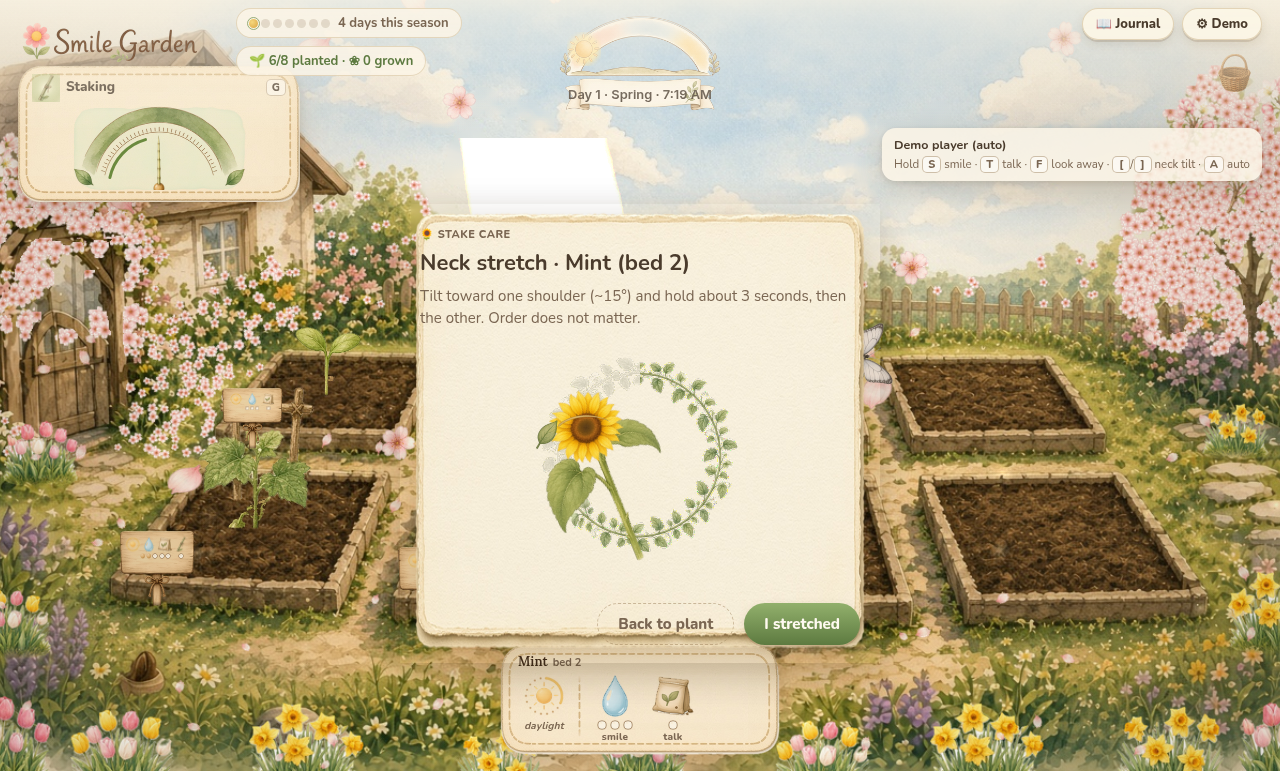
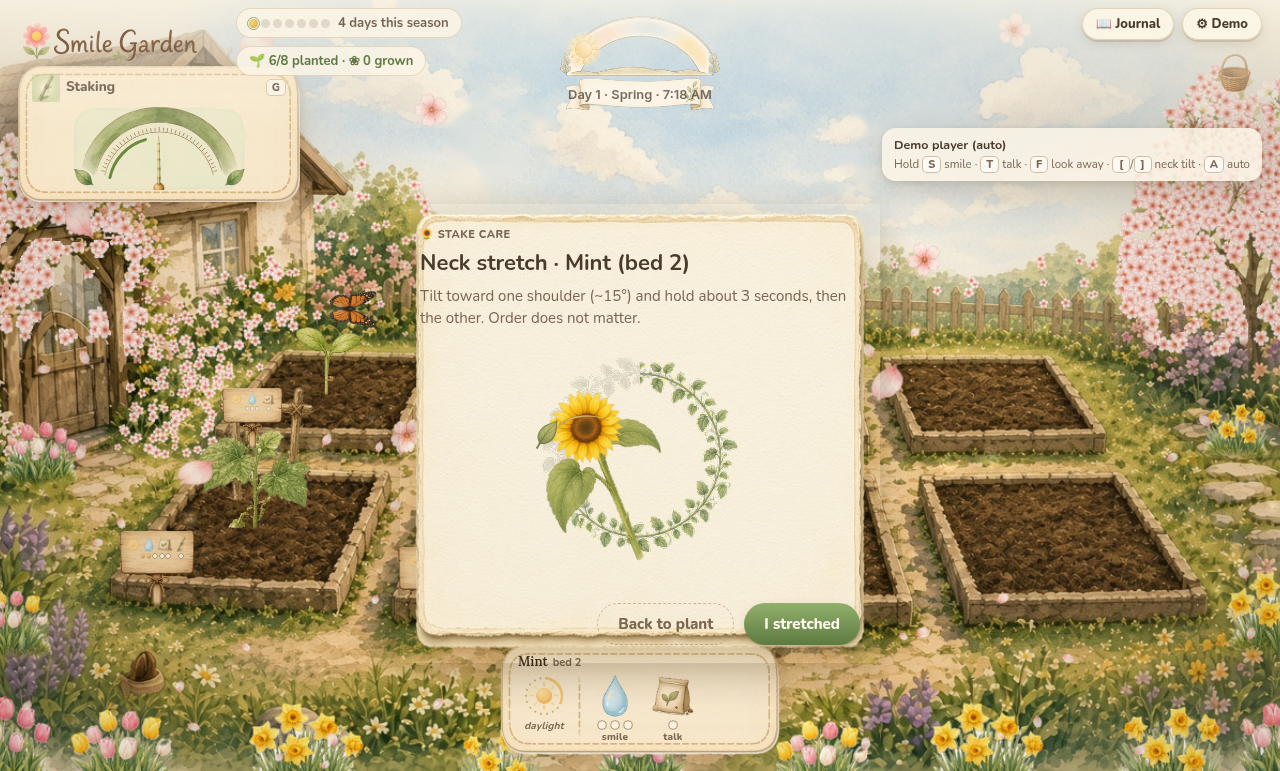
Stop care-hub sun shafts and clip bed FX strips for doc captures
During care-hub, let syncTendRing own scene effects instead of the legacy
per-step sun shimmer that painted full-height shafts over the gate. Clip
effect, harvest, and selection art to each bed box, snap FX off when targets
clear, capture signal-panel shots mid-visit with the tend strip visible, and
regenerate the affected care UI PNGs.

diff --git a/renderer/scene.js b/renderer/scene.js
@@ -497,10 +497,22 @@
                 if (fxWasOn[k] && !on) playAbsorb(k, effectPlot);
                 fxWasOn[k] = on;
             }
-            if ('sun' in e) fx.sunTarget = clamp(e.sun);
-            if ('water' in e) fx.waterTarget = clamp(e.water);
-            if ('fert' in e) fx.fertTarget = clamp(e.fert);
-            if ('stake' in e) fx.stakeTarget = clamp(e.stake);
+            if ('sun' in e) {
+                fx.sunTarget = clamp(e.sun);
+                if (fx.sunTarget < 0.03) fx.sun = 0;
+            }
+            if ('water' in e) {
+                fx.waterTarget = clamp(e.water);
+                if (fx.waterTarget < 0.03) fx.water = 0;
+            }
+            if ('fert' in e) {
+                fx.fertTarget = clamp(e.fert);
+                if (fx.fertTarget < 0.03) fx.fert = 0;
+            }
+            if ('stake' in e) {
+                fx.stakeTarget = clamp(e.stake);
+                if (fx.stakeTarget < 0.03) fx.stake = 0;
+            }
             if ('breath' in e) fx.breath = clamp(e.breath);
         }
         const clamp = (x) => (x > 1 ? 1 : x < 0 || !Number.isFinite(x) ? 0 : x);
@@ -1044,6 +1056,7 @@
             const meta = id && ART.plants[id] ? ART.plants[id].stages[4] : null;
             const ax = H.frameW / 2;
             ctx.save();
+            clipToBed(i, 16);
             ctx.globalAlpha = Math.min(1, alpha);
             ctx.translate(p.x, p.y - 4);
             ctx.scale(s, s);
@@ -1393,6 +1406,7 @@
             if (!ready(img) || !off) return;
             const pulse = tendRingPulse ? 0.75 + 0.25 * (0.5 + 0.5 * Math.sin(t * Math.PI)) : 1;
             ctx.save();
+            clipToBed(i, 24);
             ctx.globalAlpha = pulse;
             ctx.drawImage(img, off[0], off[1]);
             ctx.restore();
@@ -1638,6 +1652,14 @@
 
         // Painted effect strips over each planted bed. Sun uses additive blending;
         // water and fertilizer stay normal so the damp patch darkens the soil.
+        function clipToBed(i, pad) {
+            const b = ART.plots[i].box;
+            const m = Number(pad) || 0;
+            ctx.beginPath();
+            ctx.rect(b[0] - m, b[1] - m - 40, b[2] - b[0] + m * 2, b[3] - b[1] + m * 2 + 48);
+            ctx.clip();
+        }
+
         function drawFxFrame(kind, mode, i, frame, alpha) {
             const E = ART.effects;
             const img = fxImgs[SPRITE_KINDS[kind] + '-' + (lighting === 'night' ? 'night' : 'day') + '-' + mode];
@@ -1645,6 +1667,7 @@
             const p = ART.plots[i];
             const s = p.w / 180;
             ctx.save();
+            clipToBed(i, 12);
             ctx.globalAlpha = Math.min(1, alpha);
             ctx.globalCompositeOperation = kind === 'sun' ? 'lighter' : 'source-over';
             ctx.translate(p.x, p.y - 4);

diff --git a/scripts/capture-driver.js b/scripts/capture-driver.js
@@ -484,10 +484,13 @@ async function run(win, outDir) {
         fs.writeFileSync(path.join(outDir, name), img.toPNG());
         console.log('[capture] wrote', name, img.getSize());
     }
-    async function captureSignalPanel(mode) {
+    async function captureSignalPanel(mode, opts) {
+        const o = opts || {};
         await js('window.__smileGarden.setMockPipForCapture(false)');
         await G('g.setChartForCapture(true)');
+        if (o.channel) await G(`g.setTendStripActiveForCapture(${JSON.stringify(o.channel)})`);
         await G(`g.setSignalPanelDemoForCapture("${mode}")`);
+        if (o.channel) await waitTendStrip(wc);
         await sleep(200);
         await G('g.captureRedraw()');
         await sleep(350);
@@ -574,9 +577,7 @@ async function run(win, outDir) {
     await sleep(800);
     await G('g.prepCaptureGarden()');
     await sleep(400);
-    for (const m of ['idle', 'smile', 'talk', 'breathe', 'stretch']) {
-        await captureSignalPanel(m);
-    }
+    await captureSignalPanel('idle');
     await G('g.clearSignalPanelDemoForCapture()');
     await js('window.__smileGarden.setMockPipForCapture(false)');
     await G('g.clearCaptureVisit()');
@@ -601,7 +602,13 @@ async function run(win, outDir) {
     await sleep(800);
     await shot('03b-selection-ring-visit.png');
     await G(`g.setCareHubProgressForCapture(4, { sun: 1, water: 0, fertilizer: 0, stake: false })`);
-    await G(`g.setSignalPanelDemoForCapture('smile')`);
+    await captureSignalPanel('smile', { channel: 'water' });
+    await G(`g.setCareHubProgressForCapture(4, { sun: 2, water: 1, fertilizer: 0, stake: false })`);
+    await captureSignalPanel('talk', { channel: 'fertilizer' });
+    await G('g.setSelectedPlot(4)');
+    await G(`g.setCareHubProgressForCapture(4, { sun: 2, water: 2, fertilizer: 0, stake: true })`);
+    await captureSignalPanel('stretch', { channel: 'stake' });
+    await G(`(() => { const s = window.__smileGarden?.source; if (s) s.setPhase('care-hub-smile'); return true; })()`);
     await G(`g.setTendStripActiveForCapture('water')`);
     await waitTendStrip(wc);
     await sleep(500);
@@ -637,7 +644,7 @@ async function run(win, outDir) {
     await G(`g.setCareHubProgressForCapture(4, { sun: 3, water: 2, fertilizer: 1, stake: true })`);
     await G('g.setSelectedPlot(4)');
     await G('g.primeCareHarvestForCapture(4)');
-    await G(`g.setSignalPanelDemoForCapture('breathe')`);
+    await captureSignalPanel('breathe', { channel: 'harvest' });
     await G(`g.setTendStripActiveForCapture('harvest')`);
     await G(`(() => { const s = window.__smileGarden?.source; if (s) s.setPhase('care-hub-breathe'); return true; })()`);
     await sleep(900);

diff --git a/renderer/app.js b/renderer/app.js
@@ -1054,7 +1054,7 @@
             const phase = Math.sin(t * 1.8);
             trace.push({
                 t,
-                happiness: mode === 'smile' ? 0.74 + phase * 0.08 : 0.55,
+                happiness: mode === 'smile' ? 0.76 + phase * 0.14 : 0.55,
                 faceVisible: mode !== 'idle',
                 talking: mode === 'talk',
                 smiling: mode === 'smile',
@@ -1737,20 +1737,21 @@
         const stakeAmt = step === 'stretch'
             ? Math.max(stretchSnap.leftProgress || 0, stretchSnap.rightProgress || 0)
             : 0;
-        const waterFx = ((step === 'care-smile' || step === 'smile') && session.smiling)
-            || (step === 'talk' && session.talking) ? 1 : 0;
-        const fertFx = (step === 'care-talk' && session.talking) ? 1
-            : (step === 'breathe' || step === 'care-harvest') ? 0.9 : 0;
-        const sunFx = step === 'care-hub' && lighting !== 'night' ? 0.22 : smileAmt;
-        scene.setEffects({
-            plot: session.selectedPlot,
-            sun: sunFx,
-            water: waterFx,
-            fert: fertFx,
-            stake: stakeAmt,
-        });
         renderNeedsCard();
         renderMeters();
+        if (step !== 'care-hub') {
+            const waterFx = ((step === 'care-smile' || step === 'smile') && session.smiling)
+                || (step === 'talk' && session.talking) ? 1 : 0;
+            const fertFx = (step === 'care-talk' && session.talking) ? 1
+                : (step === 'breathe' || step === 'care-harvest') ? 0.9 : 0;
+            scene.setEffects({
+                plot: session.selectedPlot,
+                sun: smileAmt,
+                water: waterFx,
+                fert: fertFx,
+                stake: stakeAmt,
+            });
+        }
         syncTendRing();
 
         // hints
